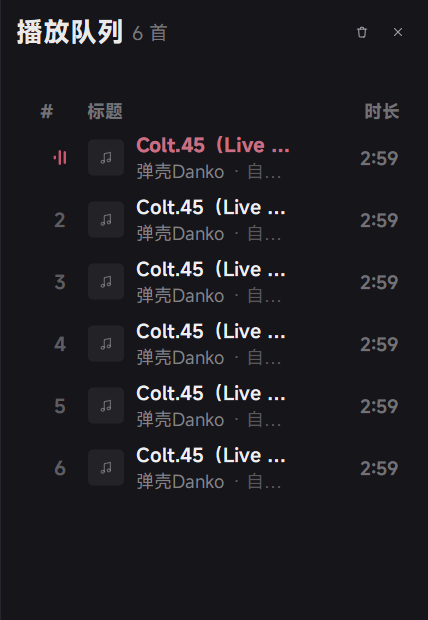
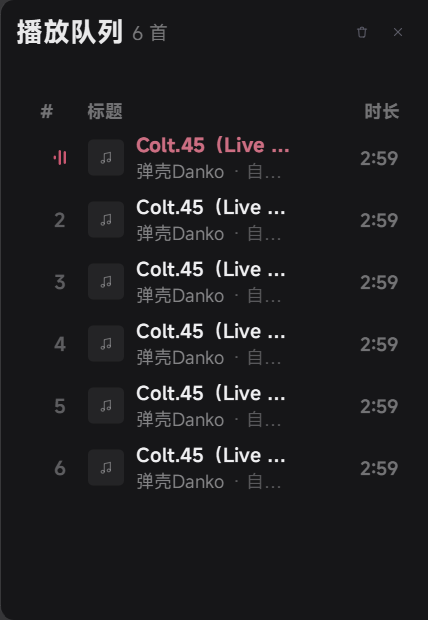
fix(1.1.17): 沉浸式队列局部深色调色板，修复主题切换回归

diff --git a/hushplayer/ui/widgets/tracklist.py b/hushplayer/ui/widgets/tracklist.py
@@ -257,6 +257,14 @@ class TrackHeader(QWidget):
         self.setMouseTracking(True)
         self.setCursor(Qt.ArrowCursor)
 
+    def _pal(self):
+        override = getattr(self, "_palette_override", None)
+        return override or theme().palette
+
+    def set_palette_override(self, palette) -> None:
+        self._palette_override = palette
+        self.update()
+
     def set_view(self, view) -> None:
         """Follow the table's real section geometry instead of guessing."""
         self._view = view
@@ -332,7 +340,7 @@ class TrackHeader(QWidget):
         super().mouseReleaseEvent(event)
 
     def paintEvent(self, event) -> None:  # noqa: N802
-        palette = theme().palette
+        palette = self._pal()
         painter = QPainter(self)
         painter.setRenderHint(QPainter.Antialiasing, True)
         font = theme().font(8.4, 600)
@@ -369,13 +377,17 @@ class TrackDelegate(QStyledItemDelegate):
         super().__init__(view)
         self.view = view
 
+    def _pal(self):
+        override = getattr(self.view, "palette_override", None)
+        return override or theme().palette
+
     # ----------------------------------------------------------------- paint
     def paint(self, painter: QPainter, option: QStyleOptionViewItem, index: QModelIndex) -> None:
         model = self.view.model()
         track: Track | None = index.data(TITLE_ROLE)
         if track is None:
             return
-        palette = theme().palette
+        palette = self._pal()
         painter.save()
         painter.setRenderHint(QPainter.Antialiasing, True)
 
@@ -439,7 +451,7 @@ class TrackDelegate(QStyledItemDelegate):
 
     def _paint_index(self, painter: QPainter, rect: QRectF, row: int, is_current: bool,
                      selected: bool = False) -> None:
-        palette = theme().palette
+        palette = self._pal()
         if is_current:
             self._paint_bars(painter, rect)
             return
@@ -453,7 +465,7 @@ class TrackDelegate(QStyledItemDelegate):
         )
 
     def _paint_bars(self, painter: QPainter, rect: QRectF, ) -> None:
-        palette = theme().palette
+        palette = self._pal()
         phase = self.view.bar_phase
         playing = self.view.model().playing
         heights = []
@@ -481,7 +493,7 @@ class TrackDelegate(QStyledItemDelegate):
 
     def _paint_title(self, painter: QPainter, rect: QRectF, track: Track, is_current: bool,
                      selected: bool = False) -> None:
-        palette = theme().palette
+        palette = self._pal()
         compact = self.view.model().compact
         cover_size = 36 if compact else 40
         cover_rect = QRectF(rect.left(), rect.center().y() - cover_size / 2, cover_size, cover_size)
@@ -602,7 +614,7 @@ class TrackDelegate(QStyledItemDelegate):
         *,
         secondary: bool = False,
     ) -> None:
-        palette = theme().palette
+        palette = self._pal()
         font = theme().font(size, 500)
         painter.setFont(font)
         color = palette.text
@@ -617,7 +629,7 @@ class TrackDelegate(QStyledItemDelegate):
 
     def _paint_duration(self, painter: QPainter, rect: QRectF, track: Track,
                         selected: bool = False) -> None:
-        palette = theme().palette
+        palette = self._pal()
         font = theme().font(8.6, 500)
         painter.setFont(font)
         painter.setPen(QPen(rgba(palette.text, 0.58 if selected else 0.42)))
@@ -625,7 +637,7 @@ class TrackDelegate(QStyledItemDelegate):
         painter.drawText(rect, int(Qt.AlignRight | Qt.AlignVCenter), text)
 
     def _paint_favorite(self, painter: QPainter, rect: QRectF, track: Track, row: int) -> None:
-        palette = theme().palette
+        palette = self._pal()
         favorite = self.view.model().is_favorite(track.id)
         hovered = self.view.favorite_hover_row == row
         size = 15
@@ -652,6 +664,9 @@ class TrackDelegate(QStyledItemDelegate):
 class TrackTable(QTableView):
     """Table view with a hand-drawn header and rich row delegate."""
 
+    def _pal(self):
+        return getattr(self, "palette_override", None) or theme().palette
+
     play_requested = Signal(object, int)  # list[Track], index
     menu_requested = Signal(object, QPoint)  # list[Track], global pos
     favorite_clicked = Signal(object)  # Track
@@ -663,6 +678,7 @@ class TrackTable(QTableView):
         super().__init__(parent)
         self._model = TrackTableModel(self)
         self.setModel(self._model)
+        self.palette_override = None
         self._delegate = TrackDelegate(self)
         self.setItemDelegate(self._delegate)
         self.viewport().setMouseTracking(True)
@@ -994,7 +1010,7 @@ class TrackTable(QTableView):
             self._paint_empty()
 
     def _paint_empty(self) -> None:
-        palette = theme().palette
+        palette = self._pal()
         painter = QPainter(self.viewport())
         painter.setRenderHint(QPainter.Antialiasing, True)
         rect = QRectF(self.viewport().rect())
@@ -1139,6 +1155,15 @@ class TrackListWidget(QWidget):
 
     def sort(self, key: str, ascending: bool = True) -> None:
         self.table.sort(key, ascending)
+
+    def set_palette_override(self, palette) -> None:
+        """Paint this list with a fixed palette (the immersive stage is dark)."""
+        self.table.palette_override = palette
+        header = getattr(self.table, "_header", None)
+        if header is not None:
+            header.set_palette_override(palette)
+        self.table.viewport().update()
+        self.table.update()
 
     def refresh_theme(self) -> None:
         self.table.refresh_theme()

diff --git a/hushplayer/ui/widgets/queue_panel.py b/hushplayer/ui/widgets/queue_panel.py
@@ -208,25 +208,40 @@ class QueuePanel(QWidget):
     def activate_palette(self) -> None:
         """Paint this panel in the dark palette while it floats over the stage."""
         if self._immersive and not self._palette_active:
-            theme().push_palette(DARK)
             self._palette_active = True
+            self.list.set_palette_override(DARK)
+            self.refresh_theme()
 
     def release_palette(self) -> None:
         """Undo the dark override taken for the immersive stage."""
         if self._palette_active:
-            theme().pop_palette()
             self._palette_active = False
+            self.list.set_palette_override(None)
+            self.refresh_theme()
 
     def refresh_theme(self) -> None:
-        self.setStyleSheet(
-            f"""
-            #QueuePanel {{
-                background: {theme().palette.surface};
-                border-left: 1px solid {theme().palette.border};
-            }}
-            """
-        )
-        palette = theme().palette
+        palette = DARK if self._palette_active else theme().palette
+        if self._palette_active:
+            # Translucent so the stage colour still shows through the panel.
+            self.setStyleSheet(
+                """
+                #QueuePanel {
+                    background: rgba(16, 16, 18, 0.84);
+                    border-left: 1px solid rgba(255, 255, 255, 0.08);
+                    border-top-left-radius: 14px;
+                    border-bottom-left-radius: 14px;
+                }
+                """
+            )
+        else:
+            self.setStyleSheet(
+                f"""
+                #QueuePanel {{
+                    background: {palette.surface};
+                    border-left: 1px solid {palette.border};
+                }}
+                """
+            )
         self.title.setStyleSheet(
             f"font-size:{theme().pt(13):.1f}pt; font-weight:700;"
             f" color:{css_rgba(palette.text, 0.95)};"

diff --git a/hushplayer/core/theme.py b/hushplayer/core/theme.py
@@ -215,7 +215,6 @@ class Theme(QObject):
         super().__init__(parent)
         self._mode = "dark"
         self._palette = DARK
-        self._palette_stack: list[Palette] = []
         self._reduce_motion = False
         self._font_scale = 1.0
         self._ui_scale = 1.0
@@ -230,22 +229,7 @@ class Theme(QObject):
 
     @property
     def palette(self) -> Palette:
-        if self._palette_stack:
-            return self._palette_stack[-1]
         return self._palette
-
-    def push_palette(self, palette: Palette) -> None:
-        """Temporarily paint with another palette (e.g. dark overlay on stage)."""
-        self._palette_stack.append(palette)
-        self.changed.emit()
-
-    def pop_palette(self) -> None:
-        if self._palette_stack:
-            self._palette_stack.pop()
-            self.changed.emit()
-
-    def overridden(self) -> bool:
-        return bool(self._palette_stack)
 
     @property
     def metrics(self) -> Metrics:

diff --git a/tests/test_gui_smoke.py b/tests/test_gui_smoke.py
@@ -391,3 +391,18 @@ def test_queue_duration_column_fits_its_text(app_bundle):
     needed = QFontMetrics(theme().font(8.4, 400)).horizontalAdvance("4:02") + 12
     assert table.columnWidth(index) >= needed
     table.deleteLater()
+
+
+def test_immersive_queue_keeps_app_palette(app_bundle):
+    """The stage queue paints dark locally and must not hijack the app theme."""
+    from hushplayer.core.theme import DARK, theme
+    from hushplayer.ui.widgets.queue_panel import QueuePanel
+
+    panel = QueuePanel(immersive=True)
+    before = theme().palette
+    panel.activate_palette()
+    assert theme().palette is before
+    assert panel.list.table.palette_override is DARK
+    panel.release_palette()
+    assert panel.list.table.palette_override is None
+    assert theme().palette is before

diff --git a/tools/probe_r68_nav.py b/tools/probe_r68_nav.py
@@ -1,0 +1,20 @@
+import os, sys, traceback
+sys.path.insert(0, ".")
+os.environ["HUSHPLAYER_DATA_DIR"] = os.path.abspath("artifacts/qa/r68/data3")
+os.environ["HUSHPLAYER_NO_CLOSE_PROMPT"] = "1"
+from PySide6.QtWidgets import QApplication
+from hushplayer.app import HushApp
+from hushplayer.ui.context import ctx
+app = QApplication(sys.argv); hush = HushApp(app); hush.start()
+win = ctx().window
+for route in ["home", "songs", "albums", "artists", "favorites", "recent", "search", "settings", "lyrics"]:
+    try:
+        win.navigate(route)
+        for _ in range(3):
+            app.processEvents()
+        print("ok", route, flush=True)
+    except Exception:
+        print("FAIL", route, flush=True)
+        traceback.print_exc()
+        break
+hush.shutdown()

diff --git a/tools/probe_r68_start.py b/tools/probe_r68_start.py
@@ -1,0 +1,18 @@
+import os, sys, faulthandler, traceback
+sys.path.insert(0, ".")
+os.environ["HUSHPLAYER_DATA_DIR"] = os.path.abspath("artifacts/qa/r68/data2")
+os.environ["HUSHPLAYER_NO_CLOSE_PROMPT"] = "1"
+faulthandler.enable()
+from PySide6.QtWidgets import QApplication
+from hushplayer.app import HushApp
+app = QApplication(sys.argv)
+hush = HushApp(app)
+try:
+    hush.start()
+    print("started ok", flush=True)
+    from hushplayer.ui.context import ctx
+    print("queue panel:", ctx().window.queue_panel is not None, flush=True)
+    hush.shutdown()
+    print("shutdown ok", flush=True)
+except Exception:
+    traceback.print_exc()

diff --git a/hushplayer/version.py b/hushplayer/version.py
@@ -4,7 +4,7 @@ from __future__ import annotations
 
 APP_NAME = "HushPlayer"
 APP_ID = "com.hushplayer.desktop"
-VERSION = "1.1.16"
+VERSION = "1.1.17"
 BUILD_CHANNEL = "stable"
 VERSION_TUPLE = tuple(int(part) for part in VERSION.split("."))
 
